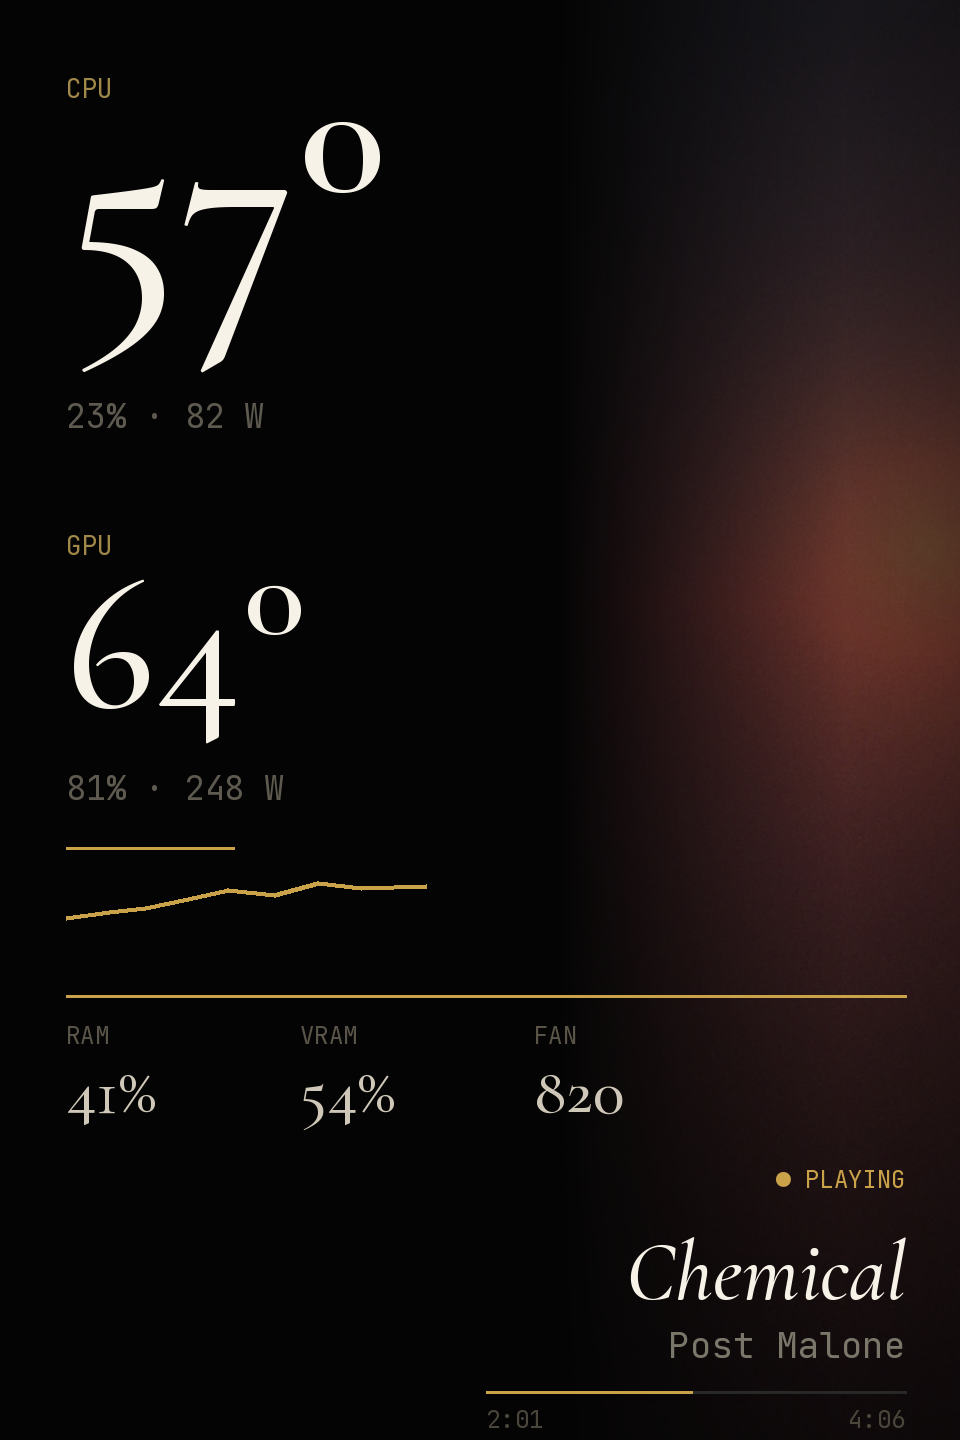
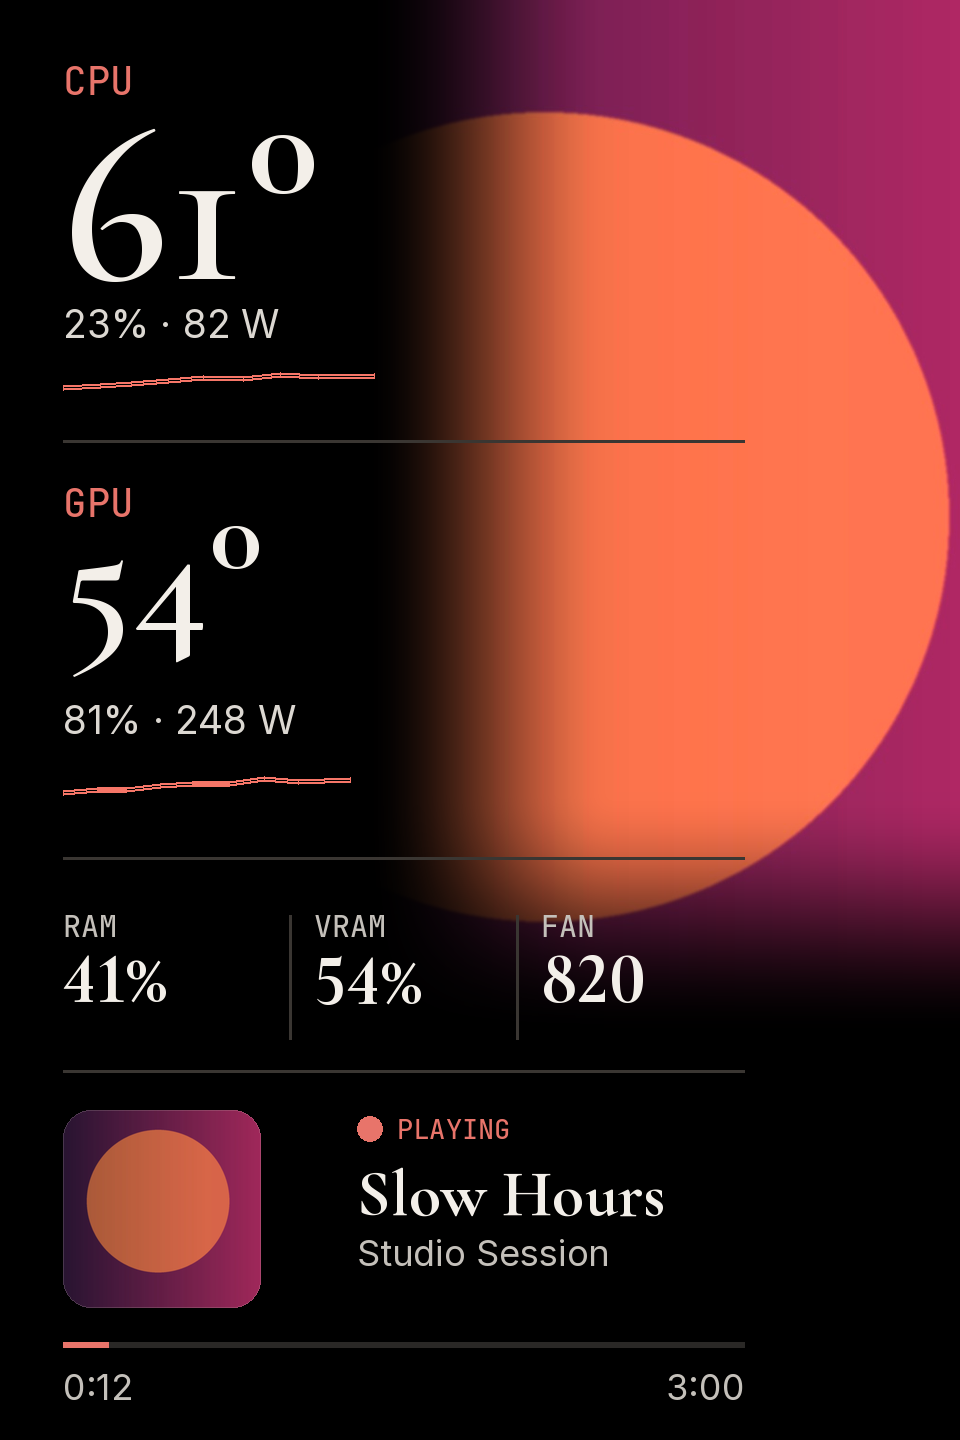
Add Nature Flow and Signature portrait; refresh theme frames

diff --git a/index.html b/index.html
@@ -4,9 +4,9 @@
   <meta charset="utf-8" />
   <meta name="viewport" content="width=device-width, initial-scale=1" />
   <title>PanelOS: a better face for that little USB screen</title>
-  <meta name="description" content="Software for 3.5-inch USB PC screens: temperatures, watts and what is playing on Spotify, in five themes." />
+  <meta name="description" content="Software for 3.5-inch USB PC screens: temperatures, watts and what is playing on Spotify, in six themes." />
   <meta property="og:title" content="PanelOS" />
-  <meta property="og:description" content="Software for 3.5-inch USB PC screens: temperatures, watts and what is playing on Spotify, in five themes." />
+  <meta property="og:description" content="Software for 3.5-inch USB PC screens: temperatures, watts and what is playing on Spotify, in six themes." />
   <meta property="og:type" content="website" />
   <meta property="og:image" content="assets/theme_signature_landscape_3x.png" />
   <meta name="theme-color" content="#0e0e0d" />
@@ -38,6 +38,7 @@
     <div class="switch">
       <p class="themes" id="themes">
         <a href="#themes" class="theme-link is-on" data-theme="signature">Signature</a>
+        <a href="#themes" class="theme-link" data-theme="nature">Nature Flow</a>
         <a href="#themes" class="theme-link" data-theme="noir">Noir Editorial</a>
         <a href="#themes" class="theme-link" data-theme="gallery">Gallery</a>
         <a href="#themes" class="theme-link" data-theme="chronograph">Chronograph</a>

diff --git a/main.js b/main.js
@@ -15,7 +15,8 @@
 /* Theme switcher under the big frame */
 (function () {
   var T = {
-    signature: { name: 'Signature', l: 'theme_signature_landscape_3x', p: null },
+    signature: { name: 'Signature', l: 'theme_signature_landscape_3x', p: 'theme_signature_portrait_3x' },
+    nature: { name: 'Nature Flow', l: 'theme_nature_landscape_3x', p: 'theme_nature_portrait_3x' },
     noir: { name: 'Noir Editorial', l: 'theme_noir_landscape_3x', p: 'theme_noir_portrait_3x' },
     gallery: { name: 'Gallery', l: 'theme_gallery_landscape_3x', p: 'theme_gallery_portrait_3x' },
     chronograph: { name: 'Chronograph', l: 'theme_chronograph_landscape_3x', p: 'theme_chronograph_portrait_3x' },
